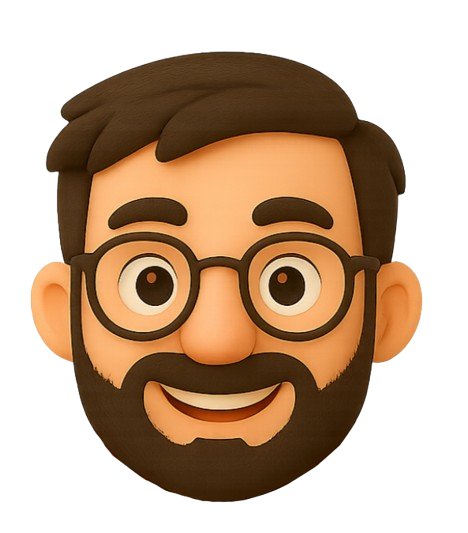
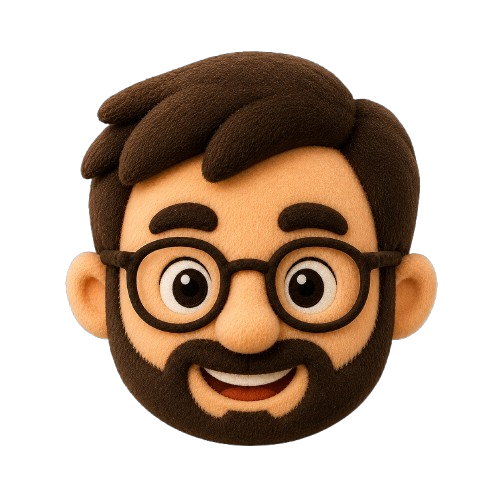
refactor: optimize contact images and simplify drop-shadow styling

diff --git a/src/pages/Contact/index.js b/src/pages/Contact/index.js
@@ -76,11 +76,12 @@ export default function Contact() {
             ))}
           </div>
         </div>
-        <div className="col-span-2 mt-10 hidden md:block">
+        <div className="col-span-2 mt-10 hidden pb-8 md:block">
           <img
             src={VintageComputer}
             alt="Vintage computer with drop shadow"
-            className="drop-shadow-effect pointer-events-none animate-fade select-none"
+            // className="drop-shadow-effect pointer-events-none animate-fade select-none"
+            className="pointer-events-none animate-fade select-none"
             loading="lazy"
             width={400}
             height={400}

diff --git a/src/styles/output.css b/src/styles/output.css
@@ -1285,6 +1285,9 @@ video {
 .pb-6 {
   padding-bottom: 1.5rem;
 }
+.pb-8 {
+  padding-bottom: 2rem;
+}
 .pt-2 {
   padding-top: 0.5rem;
 }